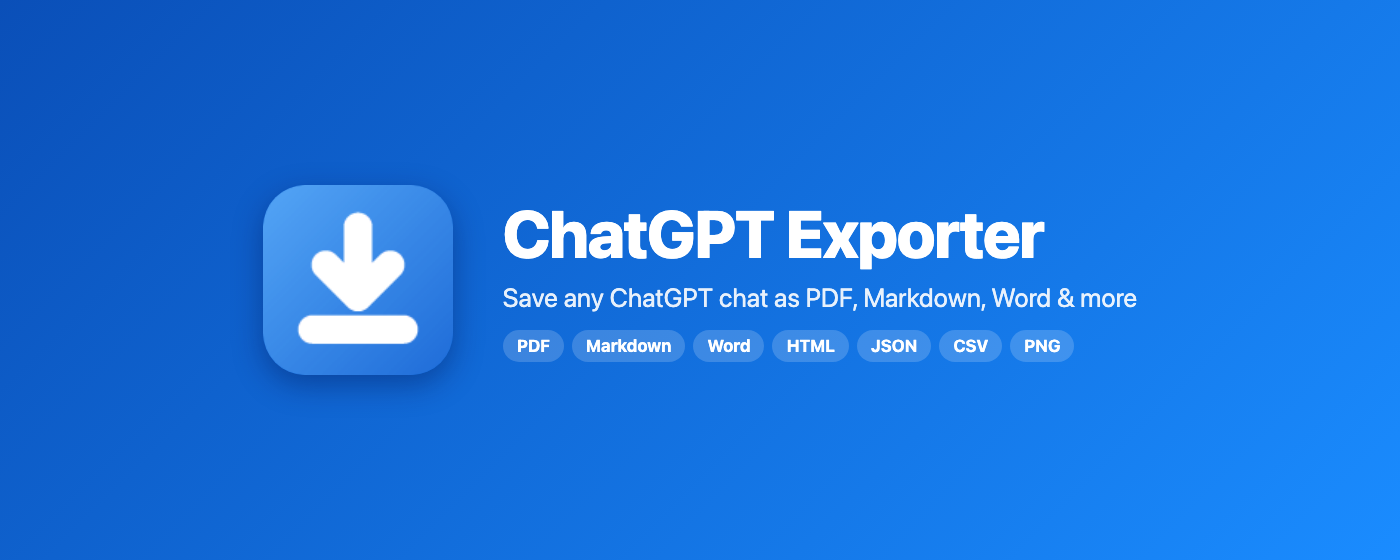
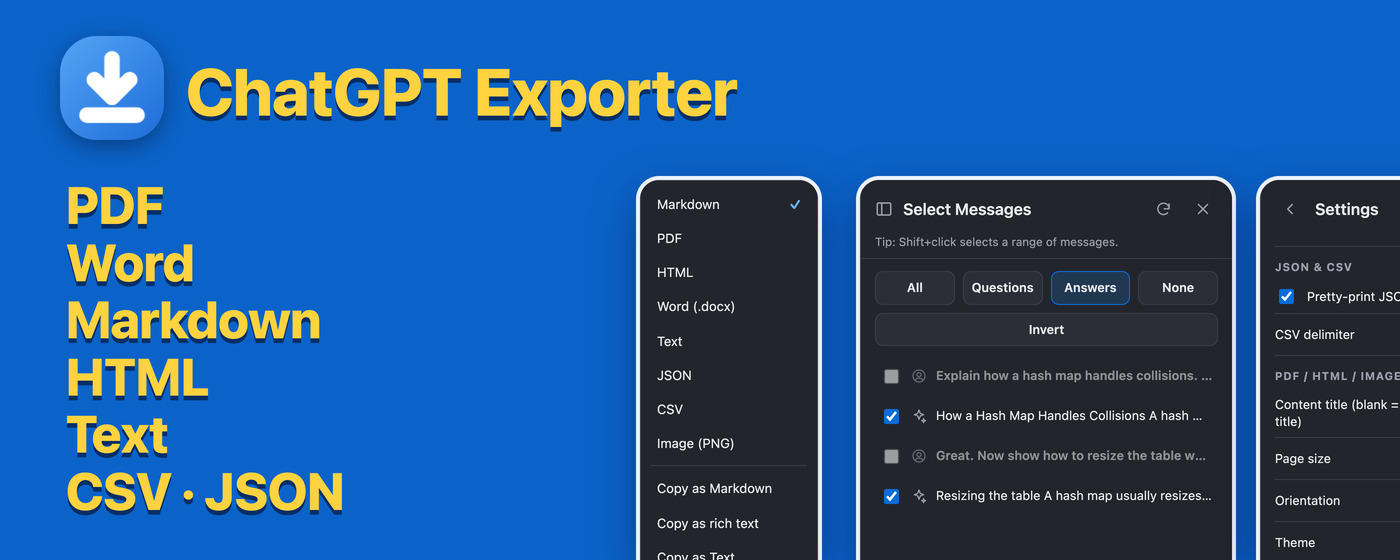
Rebuild promo tiles in bold reference style from real UI renders

diff --git a/store-assets/promo.js b/store-assets/promo.js
@@ -1,0 +1,36 @@
+// Builds the Web Store promo tiles (440x280 and 1400x560) from the real UI renders in store-assets/raw (see harness/capture.js).
+// Run: node store-assets/promo.js
+const fs = require('fs'), cp = require('child_process');
+const dir = __dirname, out = dir + '/out', tmp = dir + '/.tmp';
+fs.mkdirSync(out, { recursive: true }); fs.mkdirSync(tmp, { recursive: true });
+const CHROME = '/Applications/Google Chrome.app/Contents/MacOS/Google Chrome';
+const raw = (n) => 'file://' + dir + '/raw/' + n;
+const dims = {};
+for (const f of ['menu.png', 'select.png', 'settings-pdf.png']) { const b = fs.readFileSync(dir + '/raw/' + f); dims[f] = [b.readUInt32BE(16) / 3, b.readUInt32BE(20) / 3]; }
+const el = (n, l, t, s, h) => { const [w, hh] = dims[n]; return `<div class=shot style="left:${l}px;top:${t}px;width:${w * s}px;height:${Math.min(h, hh * s)}px"><img src="${raw(n)}" style="width:${w * s}px;display:block"></div>`; };
+const page = (w, h, k, body) => `<!doctype html><meta charset=utf-8><style>
+*{margin:0;padding:0;box-sizing:border-box}html,body{width:${w}px;height:${h}px;overflow:hidden}
+body{background:#0b63c9;font-family:-apple-system,BlinkMacSystemFont,"Segoe UI",Roboto,Helvetica,Arial,sans-serif;position:relative}
+.y{color:#ffd23f;font-weight:800;letter-spacing:-.01em;text-shadow:0 ${3 * k}px 0 #052e66}
+.shot{position:absolute;overflow:hidden;border-radius:${12 * k}px ${12 * k}px 0 0;box-shadow:0 0 0 ${2.5 * k}px rgba(255,255,255,.92),0 ${10 * k}px ${28 * k}px rgba(0,20,70,.5);background:#000}
+.logo{position:absolute;border-radius:${22 * k}%;box-shadow:0 ${4 * k}px ${14 * k}px rgba(0,0,0,.35)}
+</style>${body}`;
+const list = (items, fs_, l, t, lh = 1.12) => `<div class="y" style="position:absolute;left:${l}px;top:${t}px;font-size:${fs_}px;line-height:${lh}">${items.map((i) => `<div>${i}</div>`).join('')}</div>`;
+const L = ['PDF', 'Word', 'Markdown', 'HTML', 'Text', 'CSV · JSON'];
+const tiles = {
+  'promo-small-440x280': [440, 280, 1, page(440, 280, 0.5,
+    `<img class=logo src="${raw('icon128.png')}" style="left:16px;top:14px;width:50px"><div class=y style="position:absolute;left:76px;top:22px;font-size:30px;line-height:1">ChatGPT Exporter</div>`
+    + list(['PDF', 'Word', 'Markdown', 'HTML', 'Text', 'CSV'], 29, 18, 74, 1.1)
+    + el('menu.png', 228, 74, 0.6, 260) + el('select.png', 345, 74, 0.55, 260))],
+  'promo-marquee-1400x560': [1400, 560, 1, page(1400, 560, 1.6,
+    `<img class=logo src="${raw('icon128.png')}" style="left:60px;top:36px;width:104px"><div class=y style="position:absolute;left:186px;top:58px;font-size:66px;line-height:1">ChatGPT Exporter</div>`
+    + list(L, 52, 66, 176, 1.1)
+    + el('menu.png', 640, 180, 1.0, 380) + el('select.png', 860, 180, 1.0, 380) + el('settings-pdf.png', 1260, 180, 1.0, 380))]
+};
+for (const [n, [w, h, , html]] of Object.entries(tiles)) {
+  const f = `${tmp}/${n}.html`; fs.writeFileSync(f, html);
+  const png = `${out}/${n}.png`;
+  cp.execFileSync(CHROME, ['--headless=new', '--disable-gpu', '--hide-scrollbars', `--window-size=${w},${h}`, '--force-device-scale-factor=3', '--allow-file-access-from-files', `--screenshot=${png}`, 'file://' + f], { stdio: 'ignore' });
+  cp.execFileSync('python3', ['-c', `from PIL import Image;im=Image.open("${png}").convert("RGB").crop((0,0,${w * 3},${h * 3})).resize((${w},${h}),Image.LANCZOS);im.save("${png}",optimize=True)`]);
+  console.log(n);
+}

diff --git a/STORE_LISTING.md b/STORE_LISTING.md
@@ -76,7 +76,7 @@ ChatGPT Exporter is an independent tool, not affiliated with, endorsed by or spo
 ```
 
 ## Images to upload (store-assets/out/)
-Screenshots (1280x800, real captures of the extension running on chatgpt.com, rendered from the real extension code: `node store-assets/harness/capture.js` (3x renders on a mock chat page, needs puppeteer-core) then `node store-assets/compose.js` (2x render downsampled to 1280x800)), in this order: hero-1-features, hero-2-formats, 1-export-menu, 2-select-messages, 5-export-result, 3-pdf-settings, 4-formats, 6-private. Promo tiles: promo-small-440x280, promo-marquee-1400x560 (`node store-assets/build.js`).
+Screenshots (1280x800, real captures of the extension running on chatgpt.com, rendered from the real extension code: `node store-assets/harness/capture.js` (3x renders on a mock chat page, needs puppeteer-core) then `node store-assets/compose.js` (2x render downsampled to 1280x800)), in this order: hero-1-features, hero-2-formats, 1-export-menu, 2-select-messages, 5-export-result, 3-pdf-settings, 4-formats, 6-private. Promo tiles: promo-small-440x280, promo-marquee-1400x560 (`node store-assets/promo.js`).
 
 ## Permission justifications (Privacy practices tab)
 - **Host access chatgpt.com, chat.openai.com:** Adds the Select/Export buttons to ChatGPT pages and reads the conversation the user chooses to export.
